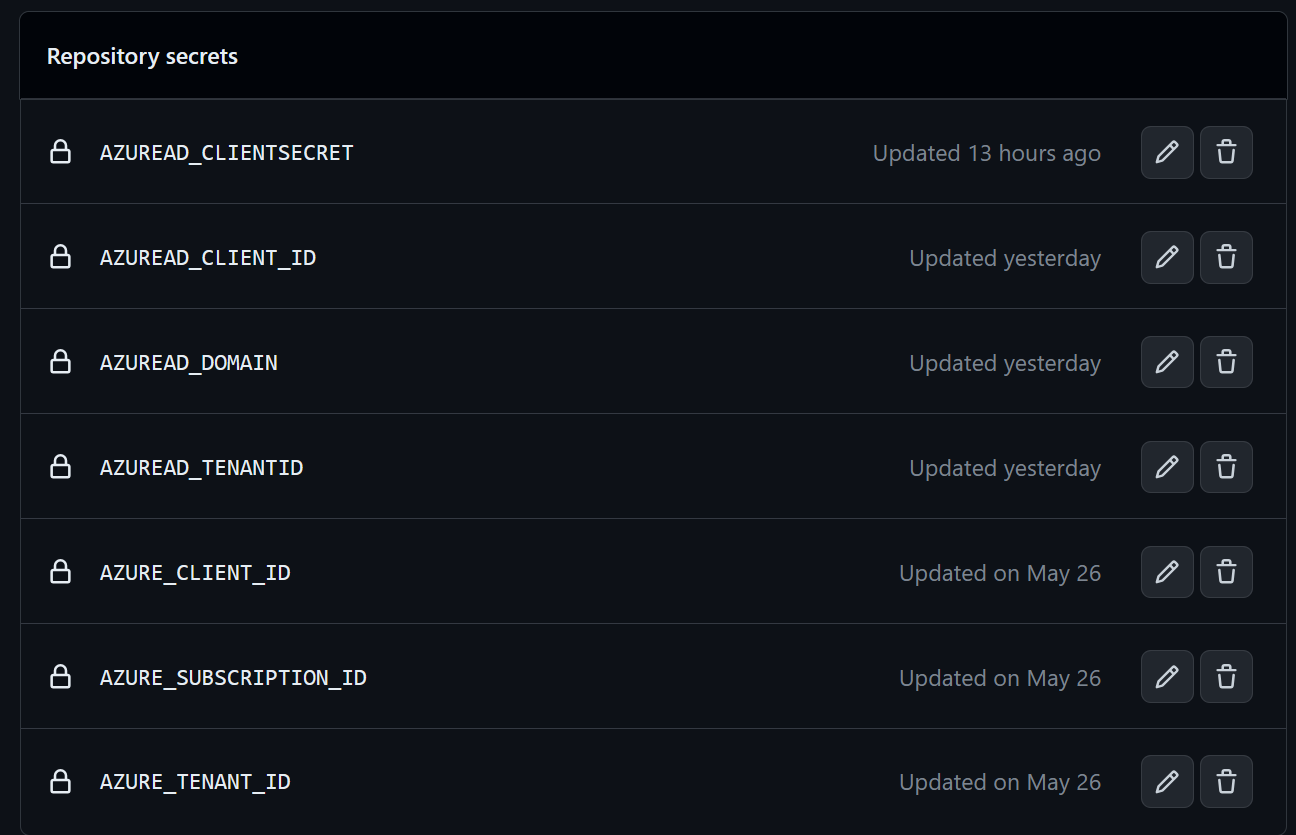
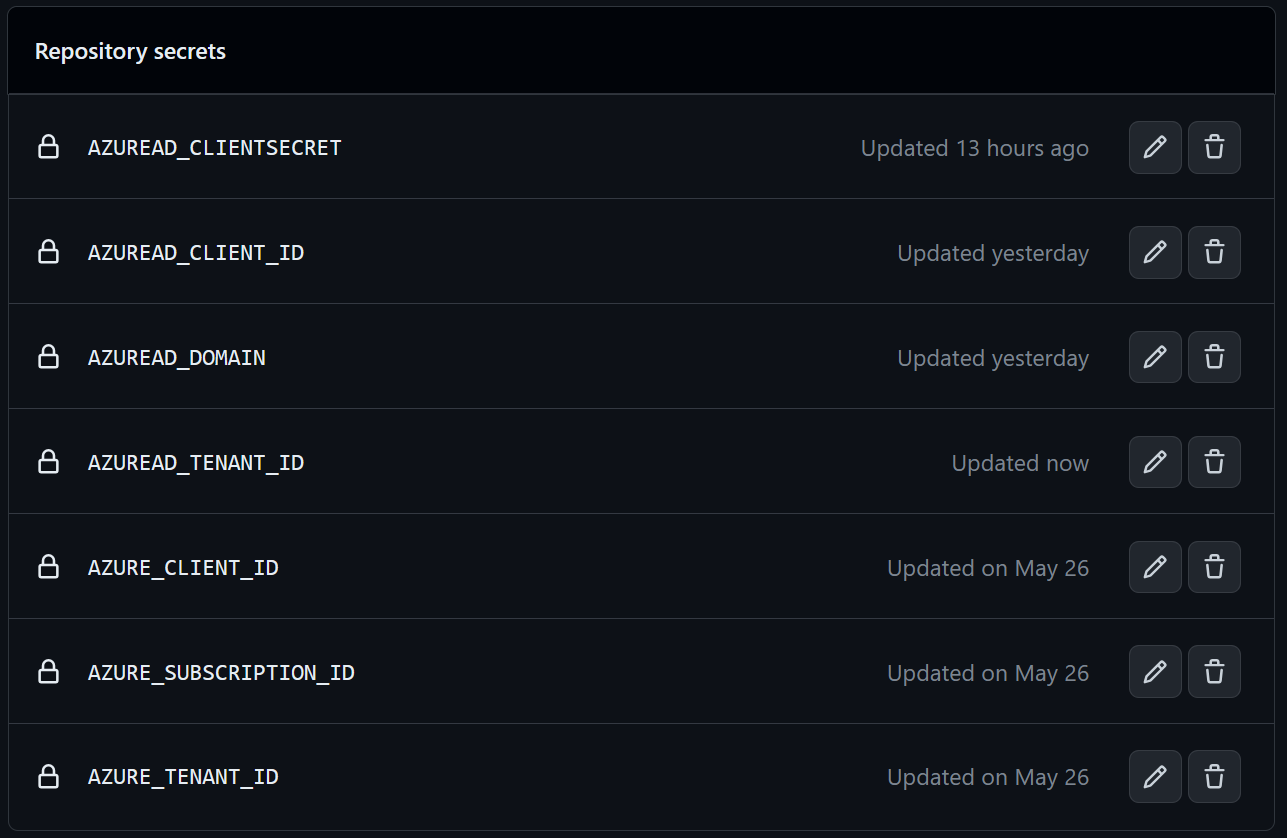
Fix TenantID deployment

diff --git a/README.md b/README.md
@@ -55,7 +55,7 @@ The following _Actions Secrets_ need to be defined so that that the resources ca
 - `AZURE_TENANT_ID`: The Tenant ID of the Service Principal used to authenticate to Azure.
 - `AZURE_SUBSCRIPTION_ID`: The Subscription ID of the Azure Subscription to deploy to.
 - `AZUREAD_DOMAIN`: The domain name of the Azure AD tenant the application will use as an authentication source.
-- `AZUREAD_TENANTID`: The Tenant ID of the Azure AD tenant the application will use as an authentication source.
+- `AZUREAD_TENANT_ID`: The Tenant ID of the Azure AD tenant the application will use as an authentication source.
 - `AZUREAD_CLIENT_ID`: The client ID of the Azure AD Application that has been created in the Azure AD tenant to be used as an authentication source.
 - `AZUREAD_CLIENTSECRET`: The client secret of the Azure AD Application that has been created in the Azure AD tenant to be used as an authentication source.
 
